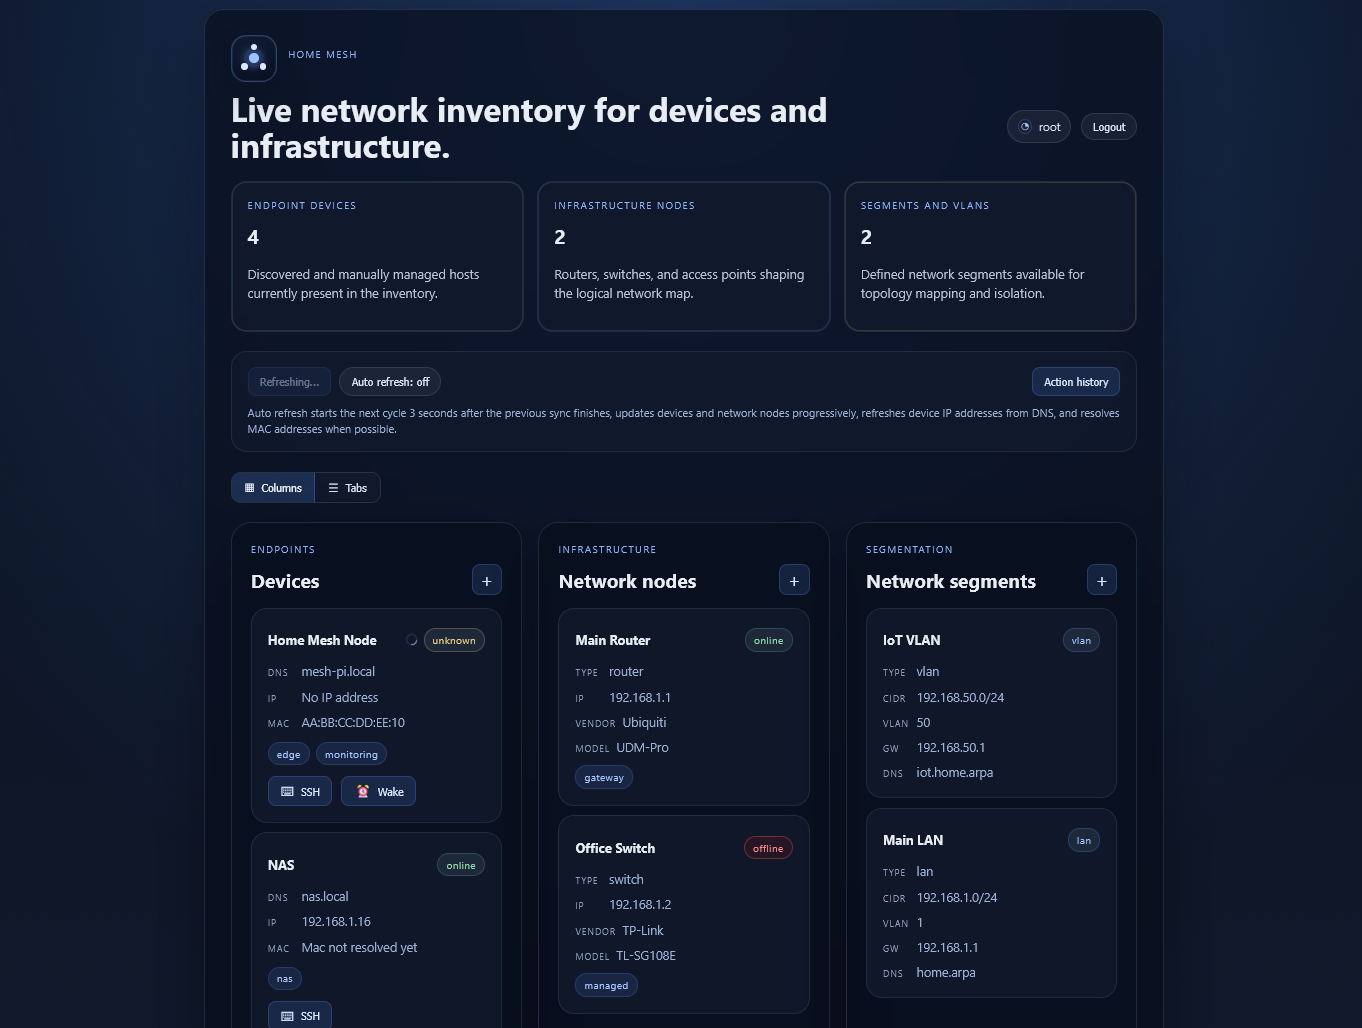
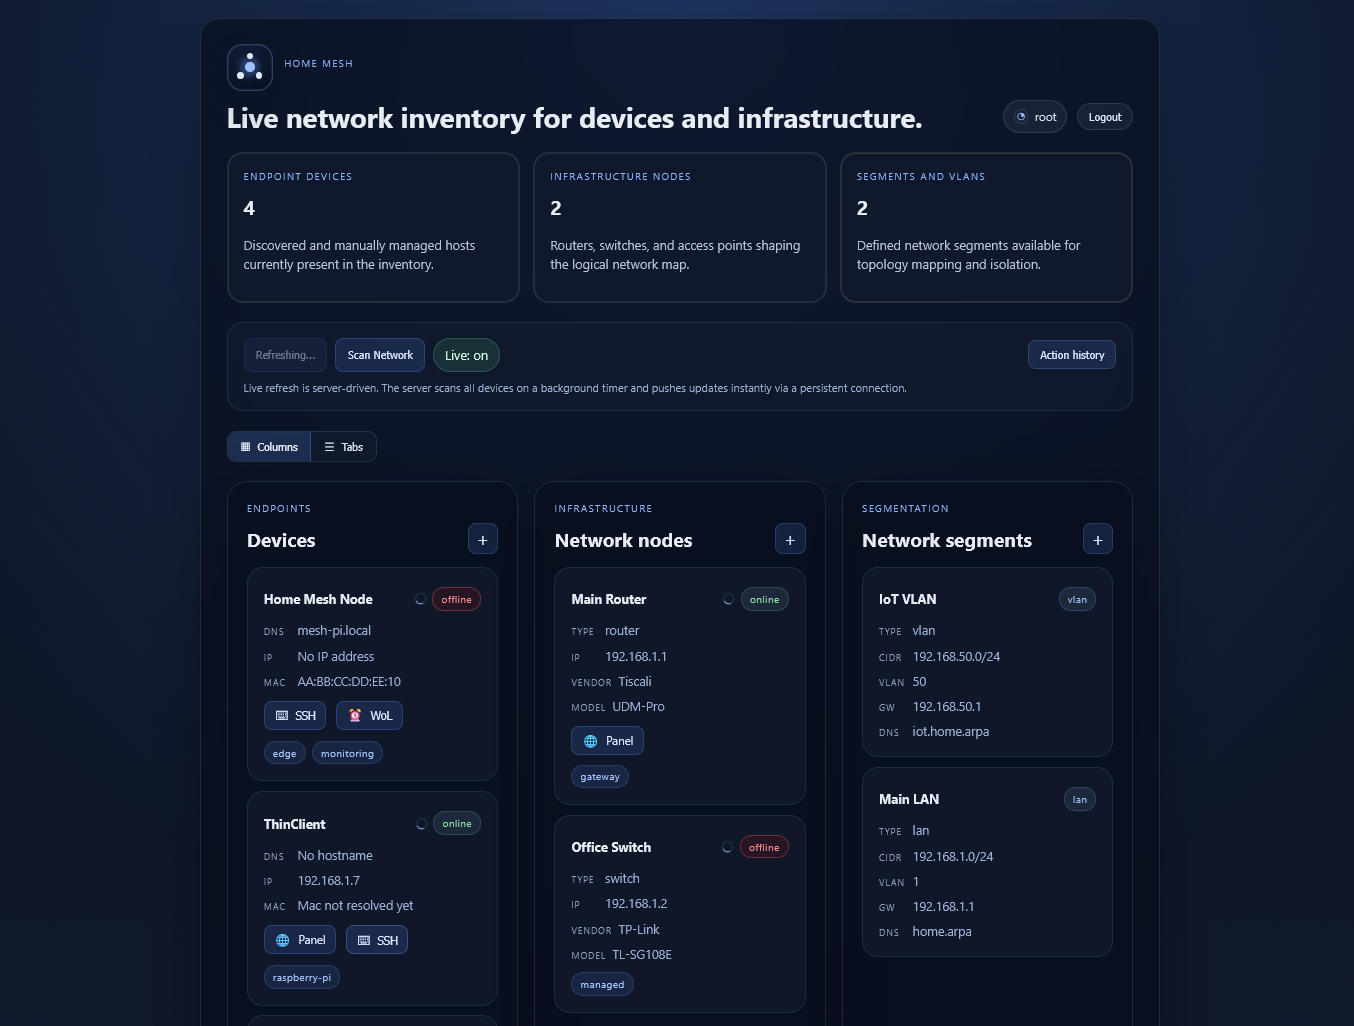
Refresh README and preview image (#6)

diff --git a/README.md b/README.md
@@ -13,6 +13,10 @@ It is designed to discover, map, and manage:
 
 The goal is to provide a lightweight control surface that can manage heterogeneous devices and infrastructure, while being able to run on a thin client, Raspberry Pi, mini PC, or another always-on node near the network edge.
 
+It is built for the awkward middle ground between "just SSH into it" and "deploy a full enterprise stack": a small, opinionated dashboard that can inventory your network, run a few useful actions, and stay close to the edge where the network actually lives.
+
+The deployment model is intentionally portable. Docker is the easiest path, but the backend and frontend can also be run natively without assuming a Windows-only or PowerShell-only environment.
+
 ## What It Does
 
 Current MVP capabilities include:
@@ -20,9 +24,9 @@ Current MVP capabilities include:
 - support for heterogeneous managed targets, not just one class of device
 - inventory CRUD for devices, network nodes, and network segments
 - topology relations and a visual topology graph
-- global live refresh for device and network-node status
-- sequential browser-driven auto-refresh without overlapping cycles
-- progressive per-item refresh updates in the UI
+- backend-driven live refresh for devices and network nodes
+- SSE-based progressive UI updates pushed from the backend
+- batch `nmap`-powered background scanning when available, with fallback probing logic
 - DNS-to-IP refresh when a hostname is configured
 - best-effort MAC address resolution
 - manual MAC address entry for devices
@@ -40,7 +44,8 @@ The project is split into two main parts:
 - Go backend
   - REST API
   - SQLite persistence
-  - refresh/probing logic
+  - background refresh and probing logic
+  - SSE event stream for live updates
   - Wake-on-LAN
   - encrypted secrets
   - SSH execution and terminal sessions
@@ -48,6 +53,7 @@ The project is split into two main parts:
   - inventory dashboard
   - topology graph
   - CRUD popups
+  - server-driven live state updates
   - SSH modal and terminal UI
 
 ## Repository Structure
@@ -78,6 +84,7 @@ The project is split into two main parts:
 - TypeScript
 - Vite
 - SQLite
+- Server-Sent Events (SSE)
 - Docker Compose
 - Nginx for frontend container serving/proxying
 
@@ -99,6 +106,7 @@ Required values:
 - `HOME_MESH_MASTER_KEY`
 - `HOME_MESH_SESSION_SECRET`
 - `HOME_MESH_BOOTSTRAP_ADMIN_PASSWORD`
+- optionally `HOME_MESH_SCAN_INTERVAL`
 - optionally `HOME_MESH_SSH_HOST_KEY_MODE`
 - optionally `HOME_MESH_NMAP_PATH`
 - optionally `HOME_MESH_WEB_PORT`
@@ -112,11 +120,20 @@ HOME_MESH_BOOTSTRAP_ADMIN_USERNAME=root
 HOME_MESH_BOOTSTRAP_ADMIN_PASSWORD=replace-with-a-strong-password-for-first-start-only
 HOME_MESH_SSH_HOST_KEY_MODE=insecure
 HOME_MESH_NMAP_PATH=nmap
+HOME_MESH_SCAN_INTERVAL=30s
 HOME_MESH_API_PORT=8080
 HOME_MESH_WEB_PORT=3000
 ```
 
-To generate a local master key in PowerShell:
+To generate a local master key:
+
+Unix-like shells:
+
+```sh
+openssl rand -base64 32
+```
+
+PowerShell:
 
 ```powershell
 [Convert]::ToBase64String((1..32 | ForEach-Object { [byte](Get-Random -Maximum 256) }))
@@ -124,7 +141,7 @@ To generate a local master key in PowerShell:
 
 ### Run Backend Natively
 
-```powershell
+```sh
 go run ./cmd/server
 ```
 
@@ -134,7 +151,7 @@ The backend listens on:
 
 ### Run Frontend Natively
 
-```powershell
+```sh
 cd web
 npm install
 npm run dev
@@ -144,19 +161,19 @@ The frontend dev server runs on:
 
 - `http://localhost:5173`
 
-The Vite dev server proxies `/api` to the backend.
+The Vite dev server proxies `/api` to the backend, including SSE and SSH terminal websocket traffic.
 
 ### Build Checks
 
 Backend:
 
-```powershell
+```sh
 go build ./cmd/server
 ```
 
 Frontend:
 
-```powershell
+```sh
 cd web
 npm run build
 ```
@@ -169,16 +186,17 @@ Current Docker layout:
 
 - `api`
   - Go backend
-  - currently configured with `network_mode: host`
-  - this is useful for LAN operations such as Wake-on-LAN and reachability checks
-  - includes `nmap` in the container image for optional discovery scans
+  - configured with `network_mode: host`
+  - this is useful for LAN operations such as Wake-on-LAN, ARP, and reachability checks
+  - includes `nmap` in the container image for discovery and background scans
 - `web`
   - frontend served by Nginx
   - proxies `/api` to the backend via `host.docker.internal:8080`
+  - forwards websocket and forwarded-host headers required by the SSH terminal and stricter origin checks
 
 Start the stack:
 
-```powershell
+```sh
 docker compose up -d --build
 ```
 
@@ -189,7 +207,7 @@ Open:
 
 Stop the stack:
 
-```powershell
+```sh
 docker compose down
 ```
 
@@ -221,6 +239,7 @@ Behavior:
 - the frontend shows a login form before loading the dashboard
 - successful login creates an `HttpOnly` session cookie
 - session lifetime is 1 hour
+- failed login attempts are rate-limited per client IP
 
 This protection applies server-side, so direct requests to the backend API are also blocked without a valid session.
 
@@ -246,21 +265,31 @@ SQLite data is stored in:
 
 That directory should be treated as local state, not source code.
 
-### Optional `nmap` Discovery
+### Discovery And Background Scanning
 
-Home Mesh can use `nmap` as an optional LAN discovery provider.
+Home Mesh uses two closely related scan paths:
+
+- manual discovery via:
+  - `GET /api/discovery/capabilities`
+  - `POST /api/discovery/scan`
+- backend-scheduled refresh loops that update known devices and network nodes and push changes to the UI over SSE
 
 Current shape:
 
 - Docker Compose API image includes `nmap`
-- native non-Docker runs require you to install `nmap` separately if you want to use it
-- the backend exposes:
-  - `GET /api/discovery/capabilities`
-  - `POST /api/discovery/scan`
+- native non-Docker runs require `nmap` to be installed separately if you want discovery or faster batch scans
+- the backend falls back to legacy probing when `nmap` is unavailable
+- the background scan interval is controlled by `HOME_MESH_SCAN_INTERVAL`
 
 You can override the binary path with:
 
 - `HOME_MESH_NMAP_PATH`
+
+### Live Refresh
+
+Live refresh is server-driven.
+
+The backend runs a background scan loop, stores changes in SQLite, and publishes progressive updates over `/api/events`. The frontend subscribes once and updates the dashboard in place without browser polling.
 
 ## Deployment
 
@@ -313,14 +342,25 @@ This is especially attractive when:
 - you want better low-level LAN visibility
 - you want a smaller operational footprint
 
+## Contributing
+
+Home Mesh is being prepared for a cleaner open-source workflow.
+
+Working expectations for contributions:
+
+- changes should land through pull requests
+- `main` should stay mergeable and deployable
+- backend and frontend changes should be validated before merge
+- changes touching auth, proxying, SSH, discovery, or Docker should get especially careful review
+
 ## Known Current Limitations
 
 - topology discovery is still mostly manual
 - MAC address resolution is best-effort and depends on network visibility
 - Wake-on-LAN reliability depends on deployment/network environment
-- scheduled refresh is still browser-driven, not backend-scheduled
+- background scanning currently focuses on known devices and nodes, not full autonomous topology discovery
 - floorplans and physical placement are not implemented yet
-- application auth exists, but deeper hardening is still limited
+- authentication hardening exists, but proxy-trust and edge deployment behavior still deserve careful review
 - router/switch-specific discovery integrations are not implemented yet
 
 ## Project Status
@@ -331,12 +371,14 @@ Core foundations already in place:
 
 - persistent inventory
 - visual dashboard
-- live refresh
+- backend-driven live refresh
 - progressive per-item live updates
 - topology graph
 - Wake-on-LAN
 - SSH credentials and SSH terminal
 - application authentication
+- Docker deployment path
+- basic open-source contribution guardrails
 
 Next large product areas are likely to be:
 
